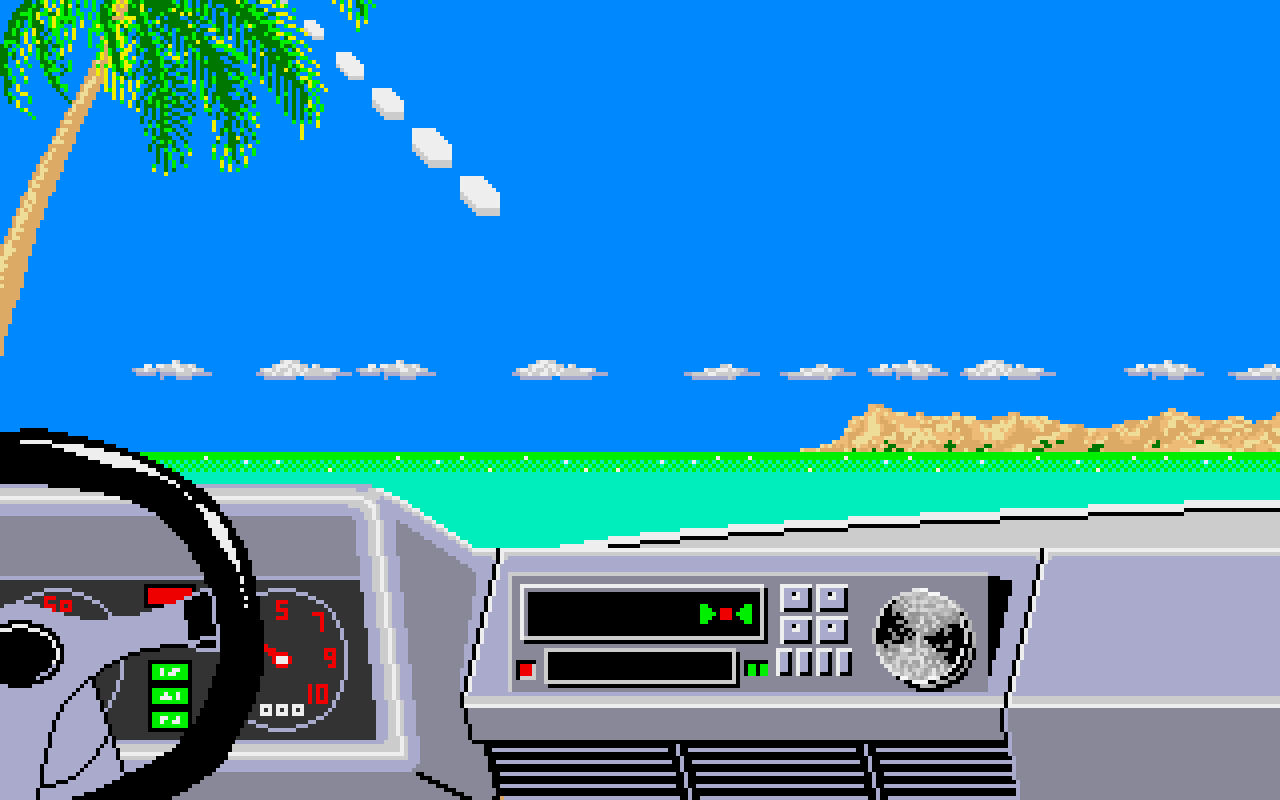
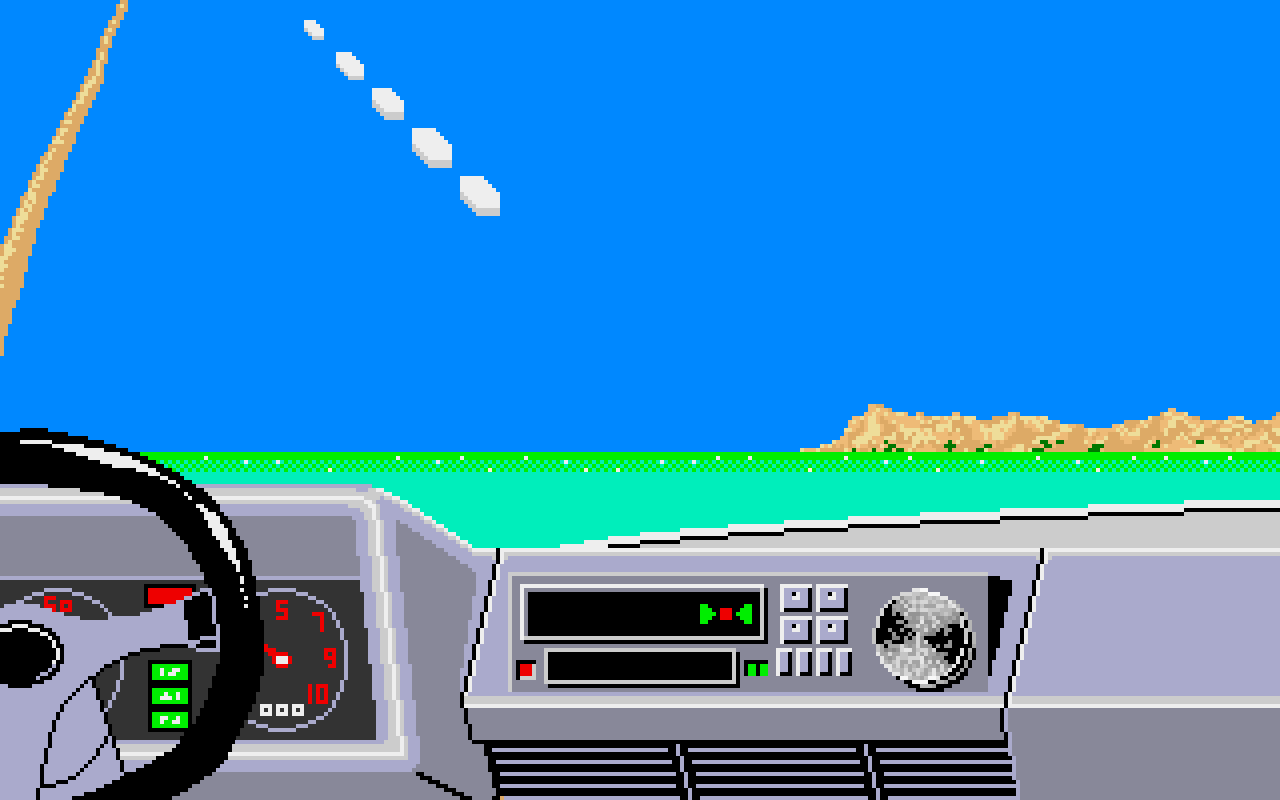
Added animations

diff --git a/components/OutRun/index.tsx b/components/OutRun/index.tsx
@@ -4,12 +4,14 @@ import {
   StyledNotesShadowImage,
   StyledOutRun,
   StyledOutRunAudio,
+  StyledOutRunClouds,
   StyledOutRunHand,
   StyledOutRunNumber,
   StyledOutRunText,
   StyledOutRunTextShadow,
   StyledOutRunTextShadowWrapper,
   StyledOutRunTextWrapper,
+  StyledOutRunTree,
   StyledOutRunWrapper,
 } from "components/OutRun/StyledOutRun";
 import { useMixcloud } from "contexts/mixcloud";
@@ -23,7 +25,9 @@ import {
 
 export const OutRun: React.FC = () => {
   const [hand, setHand] = React.useState("outrun/hand-none.png");
-  const [frequency, setFrequency] = useState(87.5);
+  const [tree, setTree] = React.useState("outrun/tree-1.png");
+  const [frequency, setFrequency] = useState("87.5");
+  const [backgroundPosition, setBackgroundPosition] = useState(0);
 
   const {
     track: { details: trackDetails },
@@ -86,8 +90,32 @@ export const OutRun: React.FC = () => {
   useEffect(() => {
     showHandSequence(setHand);
     const randomFrequency = (Math.random() * (108.0 - 87.5) + 87.5).toFixed(1);
-    setFrequency(Number(randomFrequency)); // Set the frequency with one decimal place
+    setFrequency(randomFrequency);
   }, [trackName]);
+
+  useEffect(() => {
+    showHandSequence(setHand);
+  }, [playing]);
+
+  useEffect(() => {
+    const intervalBackgroundPosition = setInterval(() => {
+      setBackgroundPosition((prev) => prev - 4);
+    }, 3000);
+
+    return () => clearInterval(intervalBackgroundPosition);
+  }, []);
+
+  useEffect(() => {
+    const intervalTree = setInterval(() => {
+      setTree((prevTree) =>
+        prevTree === "outrun/tree-1.png"
+          ? "outrun/tree-2.png"
+          : "outrun/tree-1.png",
+      );
+    }, 2000);
+
+    return () => clearInterval(intervalTree);
+  }, []); // Empty dependency array to run once on mount
 
   return (
     <StyledOutRunWrapper>
@@ -101,13 +129,16 @@ export const OutRun: React.FC = () => {
             {cleanTrackName}
           </StyledOutRunTextShadow>
         </StyledOutRunTextShadowWrapper>
-
         <StyledOutRunTextWrapper $fontSize={fontSize}>
           <StyledNotesImage src="outrun/notes.png" $fontSize={fontSize} />
           <StyledOutRunText $fontSize={fontSize}>
             {cleanTrackName}
           </StyledOutRunText>
         </StyledOutRunTextWrapper>
+        <StyledOutRunTree src={tree} />
+        <StyledOutRunClouds
+          style={{ backgroundPositionX: `${backgroundPosition}px` }}
+        />
         <StyledOutRunNumber>{frequency}</StyledOutRunNumber>
         <StyledOutRunAudio
           src={playing ? "outrun/audio-loop.gif" : "outrun/anim/audio-0.png"}

diff --git a/components/OutRun/StyledOutRun.ts b/components/OutRun/StyledOutRun.ts
@@ -57,6 +57,28 @@ export const StyledNotesShadowImage = styled(StyledNotesImage)`
   z-index: 1;
 `;
 
+export const StyledOutRunTree = styled.img`
+  position: absolute;
+  left: 0;
+  top: 0;
+  width: 188px;
+  height: 88px;
+  z-index: 2;
+`;
+
+export const StyledOutRunClouds = styled.div`
+  position: absolute;
+  left: 0;
+  top: 180px;
+  width: 100%;
+  height: 11px;
+  background-image: url("outrun/clouds.png");
+  background-repeat: repeat-x;
+  background-position: 0 0;
+  background-size: contain;
+  z-index: 2;
+`;
+
 export const StyledOutRunNumber = styled.div`
   position: absolute;
   left: 268px;
